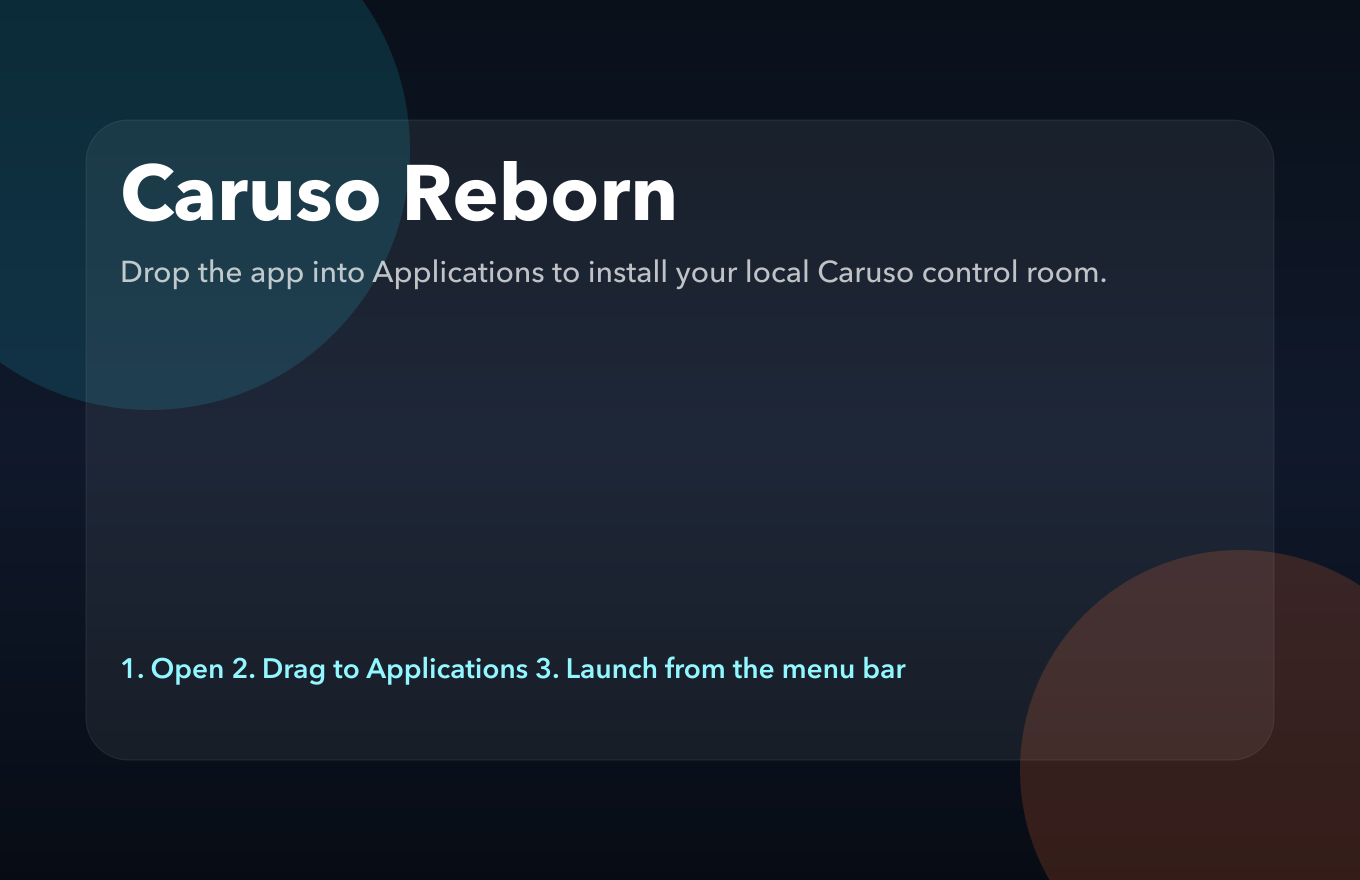
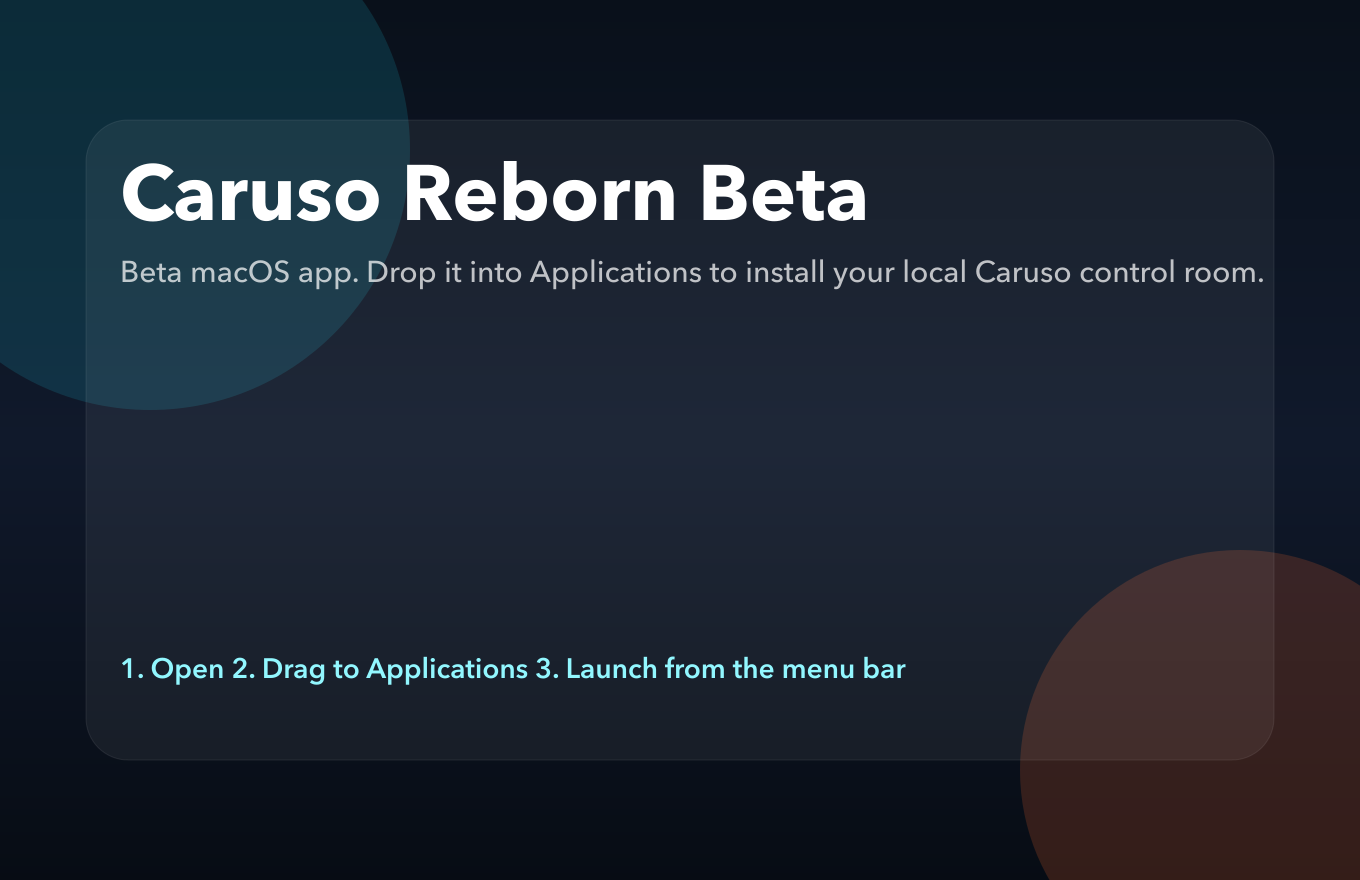
feat(desktop): add mac beta dmg release

Changed region(s): [[0.0926, 0.1841, 0.9265, 0.3375]]

diff --git a/electron/main.ts b/electron/main.ts
@@ -12,7 +12,7 @@ const preloadPath = path.resolve(currentDir, "../../electron/preload.cjs");
 const dataDir = path.join(app.getPath("userData"), "data");
 const serverManager = createServerManager({ dataDir });
 const desktopUiOrigin = `http://127.0.0.1:${config.port}`;
-const appLabel = "Caruso Reborn";
+const appLabel = "Caruso Reborn Beta";
 const isMac = process.platform === "darwin";
 
 let mainWindow: BrowserWindow | null = null;
@@ -85,7 +85,7 @@ function configureAutoUpdates() {
       await dialog.showMessageBox({
         type: "info",
         title: "Update wird geladen",
-        message: `Caruso Reborn ${info.version} wird heruntergeladen.`,
+        message: `Caruso Reborn Beta ${info.version} wird heruntergeladen.`,
         detail: "Sobald das Update fertig ist, kannst du die App direkt neu starten."
       });
     }
@@ -117,7 +117,7 @@ function configureAutoUpdates() {
       defaultId: 0,
       cancelId: 1,
       title: "Update bereit",
-      message: `Caruso Reborn ${info.version} wurde heruntergeladen.`,
+      message: `Caruso Reborn Beta ${info.version} wurde heruntergeladen.`,
       detail: "Starte die App neu, um das Update zu installieren."
     });
 

diff --git a/README.md b/README.md
@@ -9,6 +9,7 @@
 ![Terminal UI](https://img.shields.io/badge/Terminal%20UI-first-111827)
 ![Fastify](https://img.shields.io/badge/Fastify-5-000000?logo=fastify&logoColor=white)
 ![CI](https://img.shields.io/github/actions/workflow/status/jx-grxf/Caruso-Reborn/ci.yml?branch=main&label=CI)
+![Beta](https://img.shields.io/badge/macOS%20app-BETA-ff8a1c)
 ![License](https://img.shields.io/badge/license-MIT-green)
 
 </div>
@@ -36,6 +37,7 @@ This is an independent community project and is **not affiliated with T+A**.
 - [Tech Stack](#tech-stack)
 - [Requirements](#requirements)
 - [Current Status](#current-status)
+- [Mac App (Beta)](#mac-app-beta)
 - [Quick Start](#quick-start)
 - [Configuration](#configuration)
 - [How It Works](#how-it-works)
@@ -85,7 +87,7 @@ The goal is not to re-create the original T+A backend. The goal is to restore a 
 - **not a hosted service**
 - **not an official T+A product**
 
-This repo is currently a **source-first project**. It is meant to be run from source today; packaged desktop releases may come later.
+This repo is currently a **source-first project**. A packaged macOS app is now available as a **Beta** release and should still be treated as early-access software.
 
 ---
 
@@ -130,9 +132,21 @@ Implemented and usable now:
 
 Still rough or incomplete:
 
-- no packaged macOS release yet
+- the packaged macOS app is available only as a **Beta**
 - Deezer integration is still experimental/incomplete
 - public-facing docs and screenshots are still being improved
+
+---
+
+## Mac App (Beta)
+
+There is now a packaged **macOS app (Beta)** for easier local setup on Mac.
+
+- install it from the latest GitHub release DMG
+- treat the app as **Beta** and expect rough edges
+- the packaged app contains the shipped code and assets only; your local `.env`, `.caruso-data`, and other personal runtime files are created on your machine at first launch and are not bundled into the DMG
+
+If you want the most stable path, run the project from source. If you want the fastest Mac setup, use the DMG Beta.
 
 ---
 
